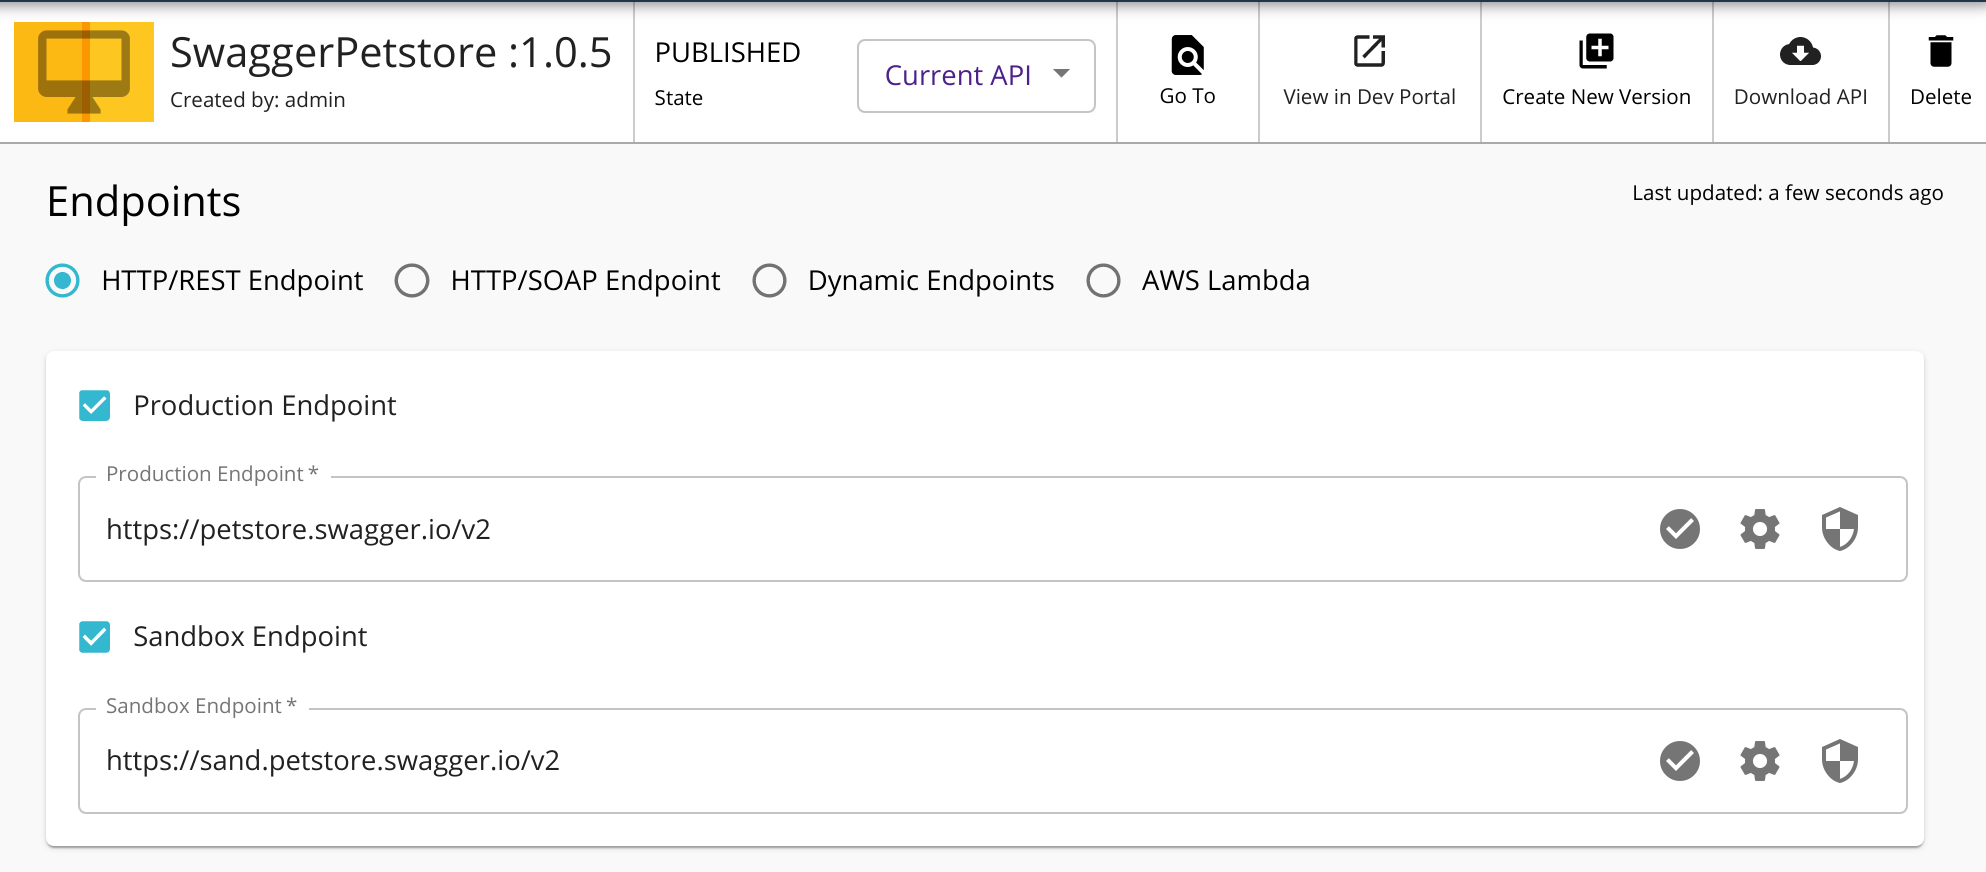
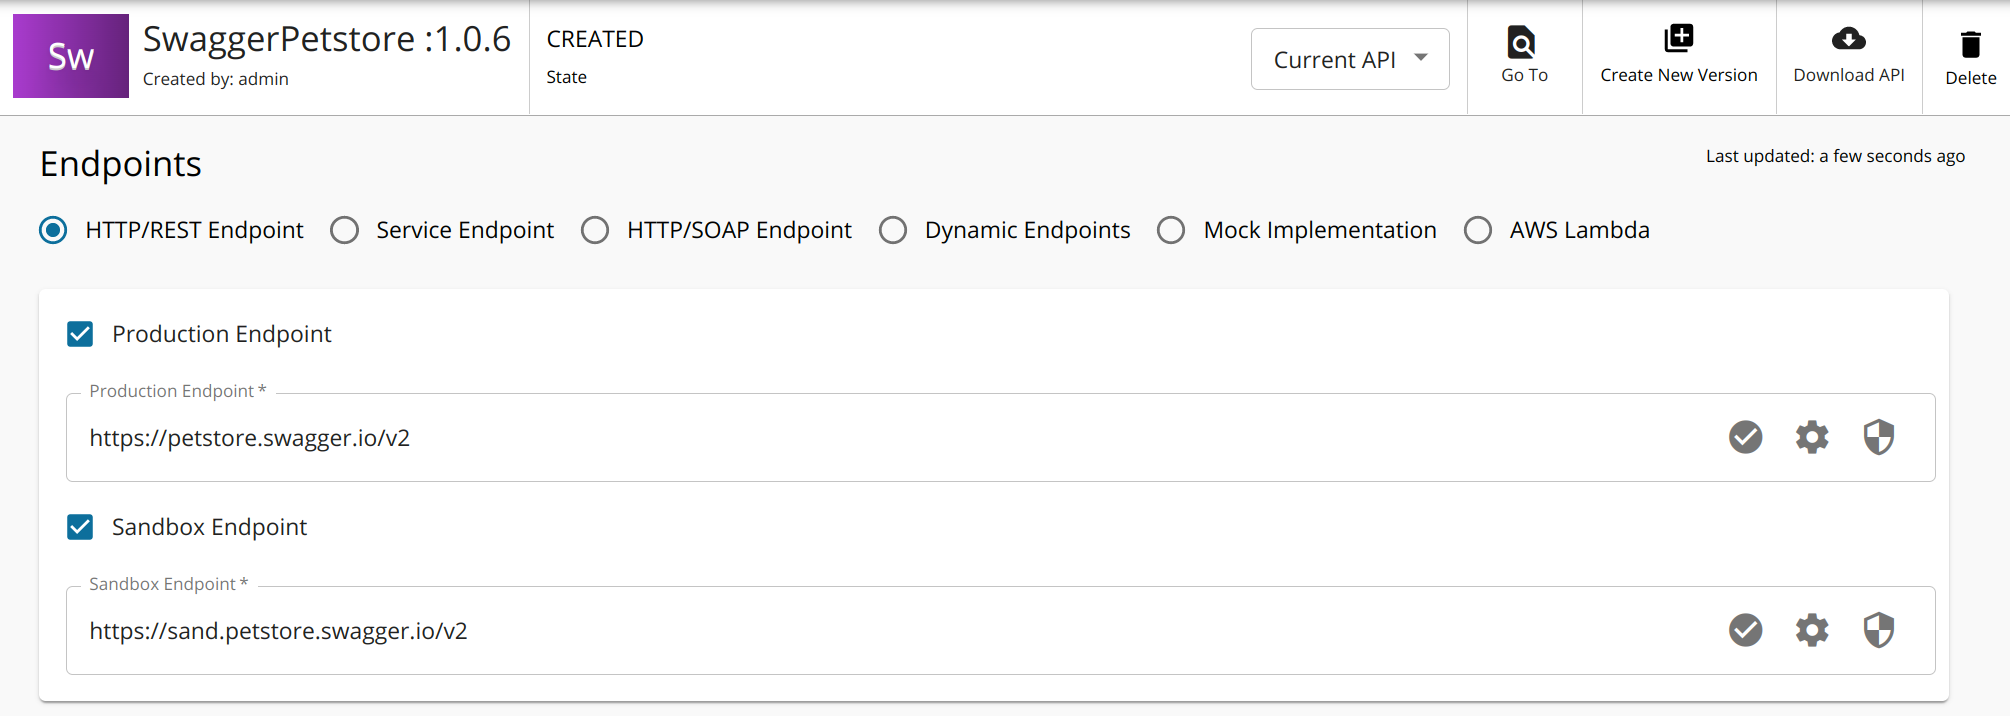
Add dynamic data to operation policies via apictl

diff --git a/en/docs/install-and-setup/setup/api-controller/advanced-topics/using-dynamic-data-in-api-controller-projects.md b/en/docs/install-and-setup/setup/api-controller/advanced-topics/using-dynamic-data-in-api-controller-projects.md
@@ -64,13 +64,13 @@ Once the project is successfully imported, sign-in to the WSO2 API Manager (WSO2
 
 [![]({{base_path}}/assets/img/learn/api-controller/advanced-topics/dynamic-data-env-config-api-endpoints.png)]({{base_path}}/assets/img/learn/api-controller/advanced-topics/dynamic-data-env-config-api-endpoints.png) 
 
-## Add dynamic data to Custom Mediation Policies in an API project
+## Add dynamic data to Operation Policies in an API project
 
-Other than the API (or API Product) Environment Configuration (`params.yaml`), the apictl supports environment variable substitution in custom mediation policies.
+Other than the API (or API Product) Environment Configuration (`params.yaml`), the apictl supports environment variable substitution in operation policies.
 
 For example, consider we need to send a special header to the backend when calling the SwaggerPetstore API we created above. The value of the header should be a dynamic value which the apictl should have control over.
 
-1. Create the below custom mediation policy `custom-header-in.xml` in `PetstoreProject/Sequences/in-sequence/Custom` folder.
+1. Create the below operation policy template `addCustomLogMessage.j2` in `PetstoreProject/Policies` folder.
 
     ```xml
     <sequence xmlns="http://ws.apache.org/ns/synapse" name="custom-header-in">
@@ -81,16 +81,48 @@ For example, consider we need to send a special header to the backend when calli
     </sequence>
     ```
 
-2. Open `PetstoreProject/api.yaml` and change below settings.
+2. Define the meta data of the above sequence by creating a new file named `addCustomLogMessage.yaml` in `PetstoreProject/Policies` folder.
+
+    ```yaml
+    type: operation_policy_specification
+    version: v4.1.0
+    data:
+      category: Mediation
+      name: addCustomLogMessage
+      version: v1
+      displayName: Custom Log Policy
+      description: "Using this policy, you can log the important details of the request"
+      applicableFlows:
+       - request
+       - response
+       - fault
+      supportedGateways:
+       - Synapse
+      supportedApiTypes:
+       - HTTP
+      policyAttributes: []
+    ```
+
+3. Open `PetstoreProject/api.yaml` and change below settings.
 
     1. Replace `lifeCycleStatus` value from `CREATED` to `PUBLISHED`. This is to ensure that the API will be Published once imported.
-    2. Add the mediation policy under the field (list) `mediationPolicies` as shown below. (Since you are adding an `IN` sequence the `type` should be specified as `IN`)
+    2. Add the operation policy under the field (list) `operations` as shown below. (Here, the operation policy which we created in the above steps has been attached to the operation `/pet/{petId}`)
 
        ```yaml
-       mediationPolicies:
-           - name: custom-header-in
-             type: IN
-             shared: false
+         operations:
+          -
+           id: ""
+           target: /pet/{petId}
+           verb: GET
+           authType: Application & Application User
+           throttlingPolicy: Unlimited
+           operationPolicies:
+            request:
+             -
+              policyName: addCustomLogMessage
+              parameters: {}
+            response: []
+            fault: []
        ```
 
     A sample configuration after applying the above changes is shown below.
@@ -103,17 +135,27 @@ For example, consider we need to send a special header to the backend when calli
         description: 'This is a sample server Petstore server.  You can find out more about
             Swagger at [http://swagger.io](http://swagger.io) or on [irc.freenode.net, #swagger](http://swagger.io/irc/).  For
             this sample, you can use the api key `special-key` to test the authorization filters.'
-        context: /v2/1.0.5
-        version: 1.0.5
+        context: /v2/1.0.6
+        version: 1.0.6
         lifeCycleStatus: PUBLISHED
-        mediationPolicies:
-            - name: custom-header-in
-              type: IN
-              shared: false
+        operations:
+          -
+           id: ""
+           target: /pet/{petId}
+           verb: GET
+           authType: Application & Application User
+           throttlingPolicy: Unlimited
+           operationPolicies:
+            request:
+             -
+              policyName: addCustomLogMessage
+              parameters: {}
+            response: []
+            fault: []
     ...
     ```
 
-3. Export the environment variables with required values.
+4. Export the environment variables with required values.
 
     ```bash tab="Linux/Mac"
     export ENV_KEY=dev_101
@@ -123,22 +165,22 @@ For example, consider we need to send a special header to the backend when calli
     SET ENV_KEY=dev_101
     ```
 
-4. Import the API Project
+5. Import the API Project
 
     ```bash
-    apictl import api -f PetstoreProject --environment development --update
+    apictl import api -f PetstoreProject --environment development --params params.yaml --update
     ```
 
     !!!note
         `apictl import-api` command has been deprecated from apictl 4.0.0 onwards. Instead use `apictl import api` as shown above.
         
-5. Generate a token and invoke the API
+6. Generate a token and invoke the API
 
     ```bash
-    $ apictl get keys -e development -n SwaggerPetstore -v 1.0.5 -r admin
+    $ apictl get keys -e development -n SwaggerPetstore -v 1.0.6 -r admin
     eyJ0eXAiOiJKV1QiLCJhbGciOiJSUz....RWrACAUNSFBpxz1lRLqFlDiaVJAg
 
-    $ curl -H "Authorization: Bearer eyJ0eXAiOiJKV1QiLCJhbGciOiJSUz....RWrACAUNSFBpxz1lRLqFlDiaVJAg" https://localhost:8243/v2/1.0.5/pet/1 -k
+    $ curl -H "Authorization: Bearer eyJ0eXAiOiJKV1QiLCJhbGciOiJSUz....RWrACAUNSFBpxz1lRLqFlDiaVJAg" https://localhost:8243/v2/1.0.6/pet/1 -k
     {"id":1,"category":{"id":1001,"name":"Animal"},"name":"doggie","photoUrls":["img/test/dog.jpeg","img/test/dog1.jpeg"],"tags":[{"id":2001,"name":"Pet"},{"id":2002,"name":"Animal"}],"status":"available"}
     ```
 
@@ -148,5 +190,5 @@ For example, consider we need to send a special header to the backend when calli
 Upon successful invocation, the header `X-ENV-KEY: dev_101` will be sent to the backend of the API. The below log will be printed in the API gateway's terminal.
 
 ```bash
-INFO - LogMediator Sent header(X-ENV-KEY) = dev_101
+INFO - LogMediator {api:SwaggerPetstore:v1.0.6} Sent header(X-ENV-KEY) = dev_101
 ```
